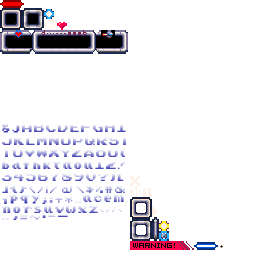
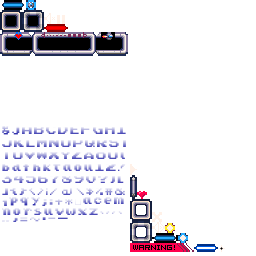
Fixed CollectPowerUp event listener to update UI, added blue bar for bullets later

Changed region(s): [[0.0, 0.4688, 0.875, 1.0], [0.0, 0.0, 0.5, 0.1562], [0.0, 0.1875, 0.5, 0.2188]]

diff --git a/core/src/main/kotlin/com/github/kovah101/darkmatter/screen/GameScreen.kt b/core/src/main/kotlin/com/github/kovah101/darkmatter/screen/GameScreen.kt
@@ -45,6 +45,7 @@ class GameScreen(
             addListener(GameEvent.PlayerMove::class, this@GameScreen)
             addListener(GameEvent.PlayerBlock::class, this@GameScreen)
             addListener(GameEvent.PlayerDeath::class, this@GameScreen)
+            addListener(GameEvent.CollectPowerUp::class, this@GameScreen)
         }
 
         engine.run {
@@ -98,19 +99,7 @@ class GameScreen(
         when (event) {
             is GameEvent.PlayerDeath -> {
                 playerAlive = false
-                val distanceScore = event.distance.roundToInt()
-                LOG.debug { "Player died with a distance of $distanceScore " }
-                // store high score
-                if (distanceScore > preferences["highscore", 0]) {
-                    preferences.flush {
-                        this["highscore"] = distanceScore
-                    }
-                }
-                game.getScreen<GameOverScreen>().run {
-                    score = distanceScore
-                    highScore = preferences["highscore", 0]
-                }
-                game.setScreen<GameOverScreen>()
+                onPlayerDeath(event)
             }
             is GameEvent.CollectPowerUp -> {
                 onCollectPowerUp(event)
@@ -135,18 +124,37 @@ class GameScreen(
 
     }
 
+    private fun onPlayerDeath(event: GameEvent.PlayerDeath) {
+        val distanceScore = event.distance.roundToInt()
+        LOG.debug { "Player died with a distance of $distanceScore " }
+        // store high score
+        if (distanceScore > preferences["highscore", 0]) {
+            preferences.flush {
+                this["highscore"] = distanceScore
+            }
+        }
+        game.getScreen<GameOverScreen>().run {
+            score = distanceScore
+            highScore = preferences["highscore", 0]
+        }
+        game.setScreen<GameOverScreen>()
+    }
+
     private fun onCollectPowerUp(event : GameEvent.CollectPowerUp){
         // check for player component in event
         event.player[PlayerComponent.mapper]?.let { player ->
             when(event.type){
-                PowerUpType.LIFE -> ui.updateLife(player.life, player.maxLife)
-                PowerUpType.SHIELD -> ui.updateShield(player.shield, player.maxShield)
+                PowerUpType.LIFE -> {
+                    ui.updateLife(player.life, player.maxLife)
+                }
+                PowerUpType.SHIELD -> {
+                    ui.updateShield(player.shield, player.maxShield)
+                }
                 else -> {
                     // ignore &
                     //return
                 }
             }
-
         }
     }
 

diff --git a/core/src/main/kotlin/com/github/kovah101/darkmatter/screen/LoadingScreen.kt b/core/src/main/kotlin/com/github/kovah101/darkmatter/screen/LoadingScreen.kt
@@ -2,6 +2,7 @@ package com.github.kovah101.darkmatter.screen
 
 import com.badlogic.gdx.Gdx
 import com.badlogic.gdx.Input
+import com.badlogic.gdx.graphics.Color
 import com.badlogic.gdx.scenes.scene2d.actions.Actions
 import com.badlogic.gdx.scenes.scene2d.ui.Image
 import com.badlogic.gdx.scenes.scene2d.ui.Label
@@ -76,6 +77,7 @@ class LoadingScreen(game: DarkMatter) : DarkMatterScreen(game) {
                 stack { cell ->
                     progressBar = image("life_bar").apply {
                         scaleX = 0f
+                        //color = Color.GOLD
                     }
                     label("Loading...", LabelStyles.DEFAULT.name) {
                         setAlignment(Align.center)

diff --git a/core/src/main/kotlin/com/github/kovah101/darkmatter/ecs/system/PowerUpSystem.kt b/core/src/main/kotlin/com/github/kovah101/darkmatter/ecs/system/PowerUpSystem.kt
@@ -139,7 +139,8 @@ class PowerUpSystem(
             gameEventManager.dispatchEvent(
                 GameEvent.CollectPowerUp.apply {
                     this.player = player
-                    this.type = powerUpType
+                    type = powerUpType
+                    LOG.debug { "Power Up event sent!" }
                 })
         }
         powerUp.addComponent<RemoveComponent>(engine)
